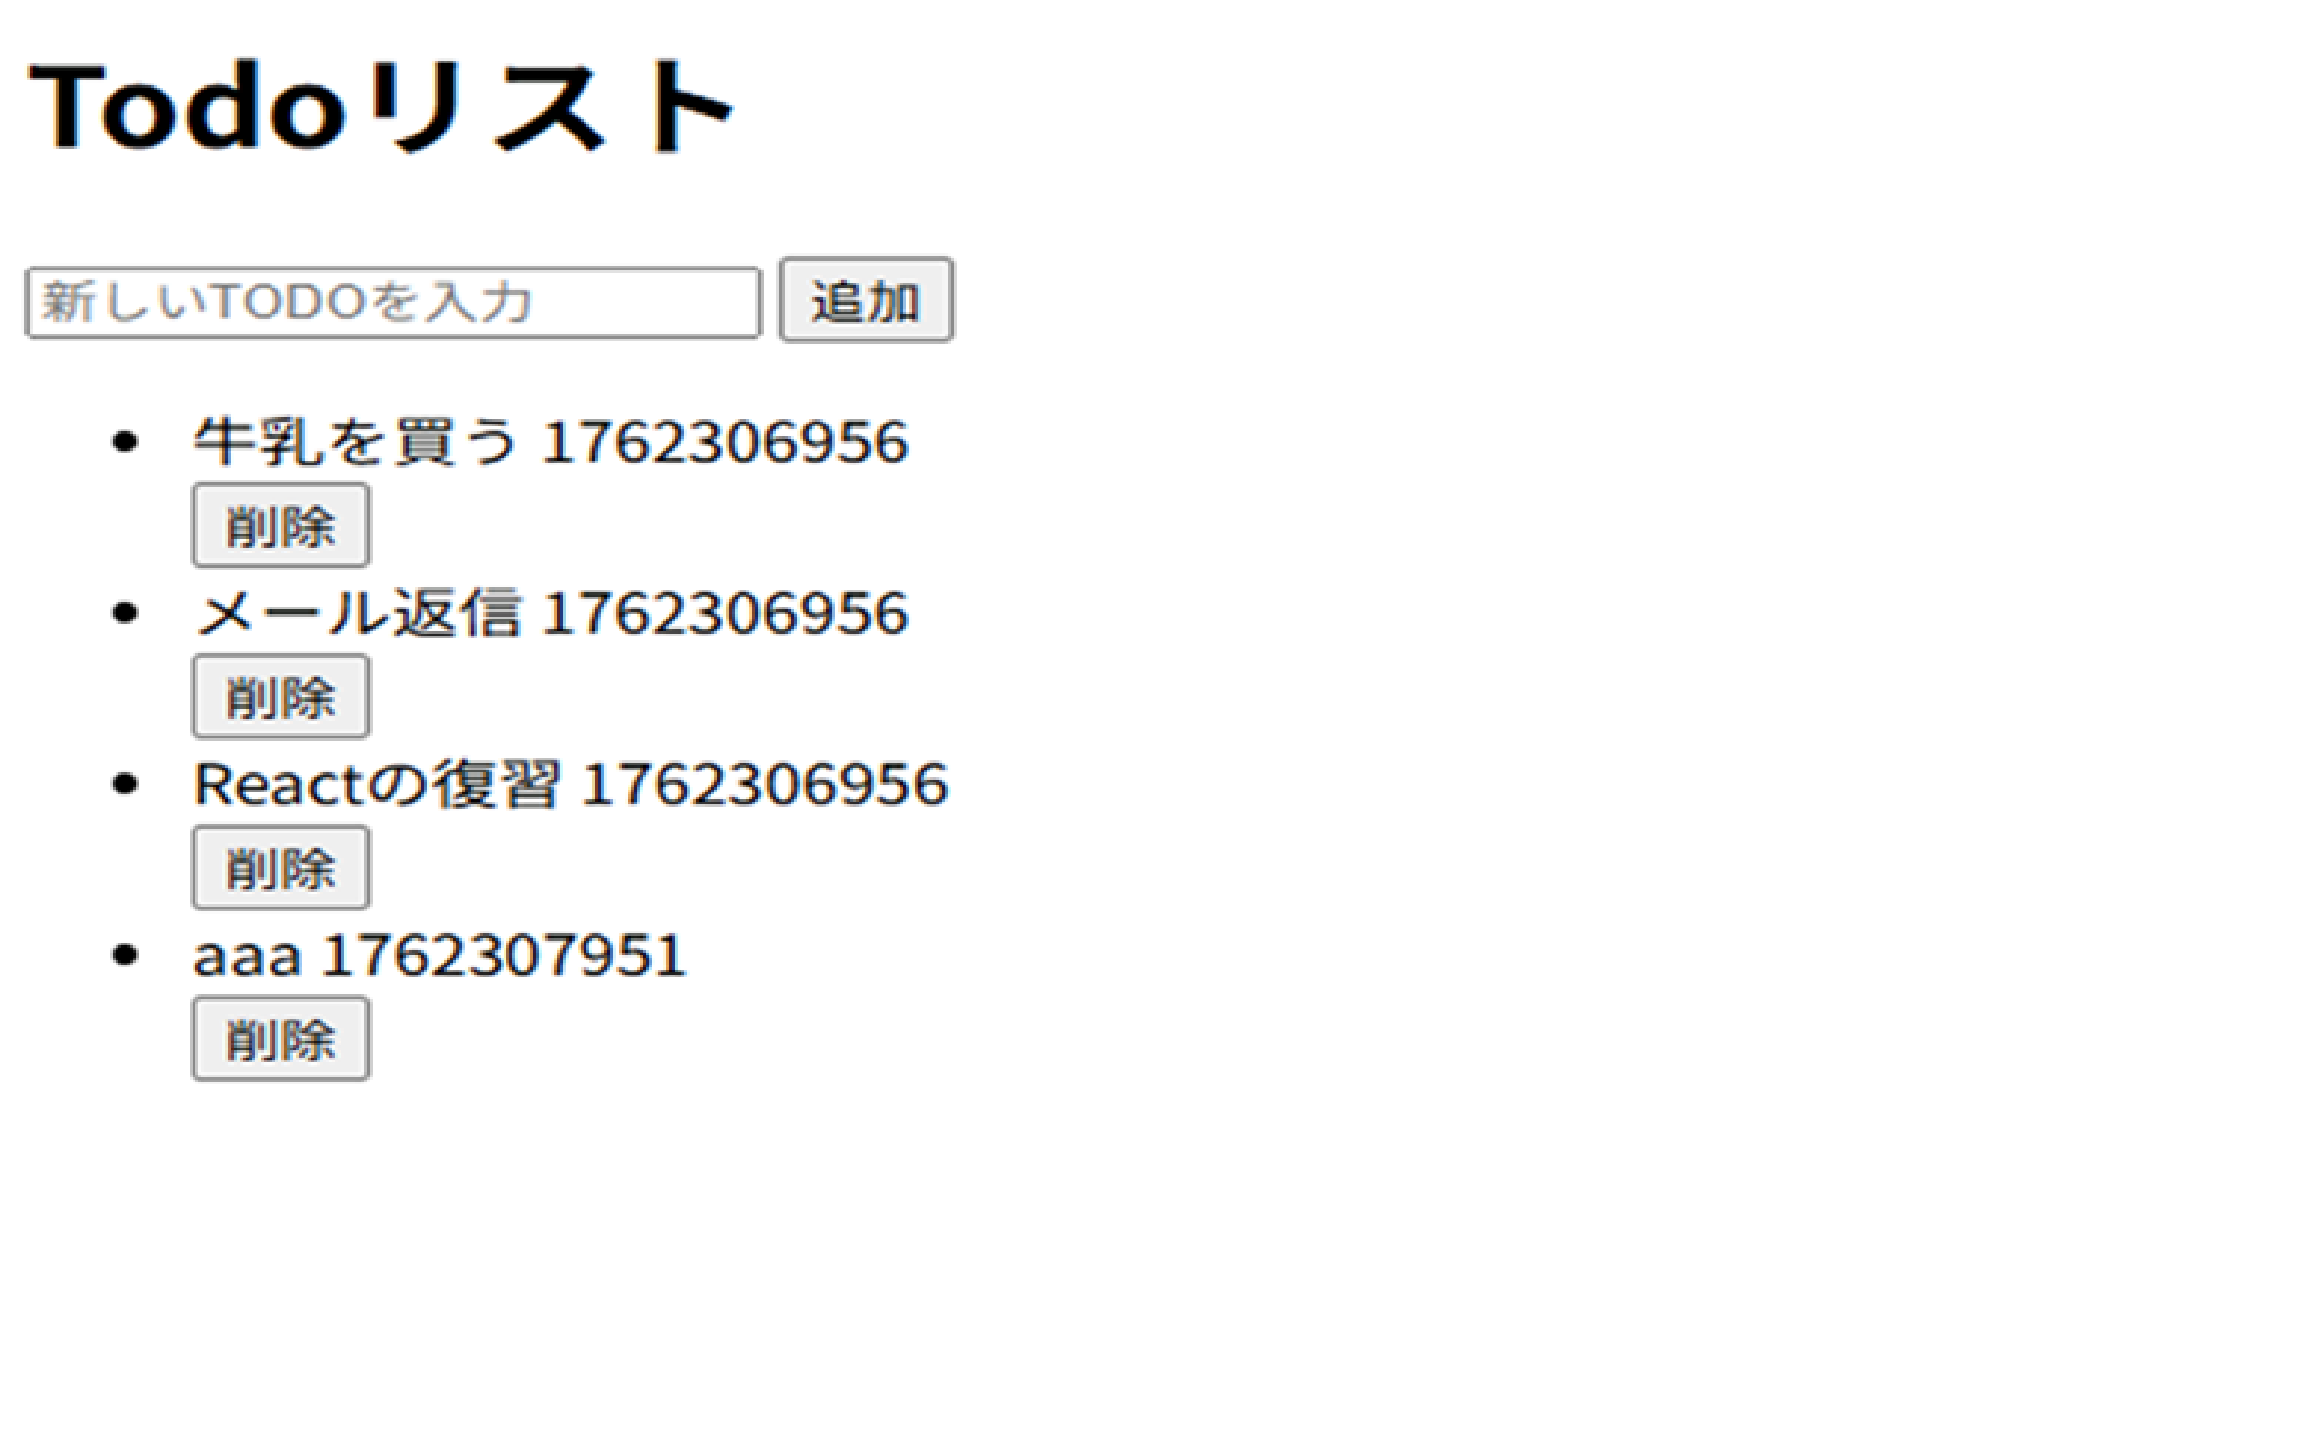
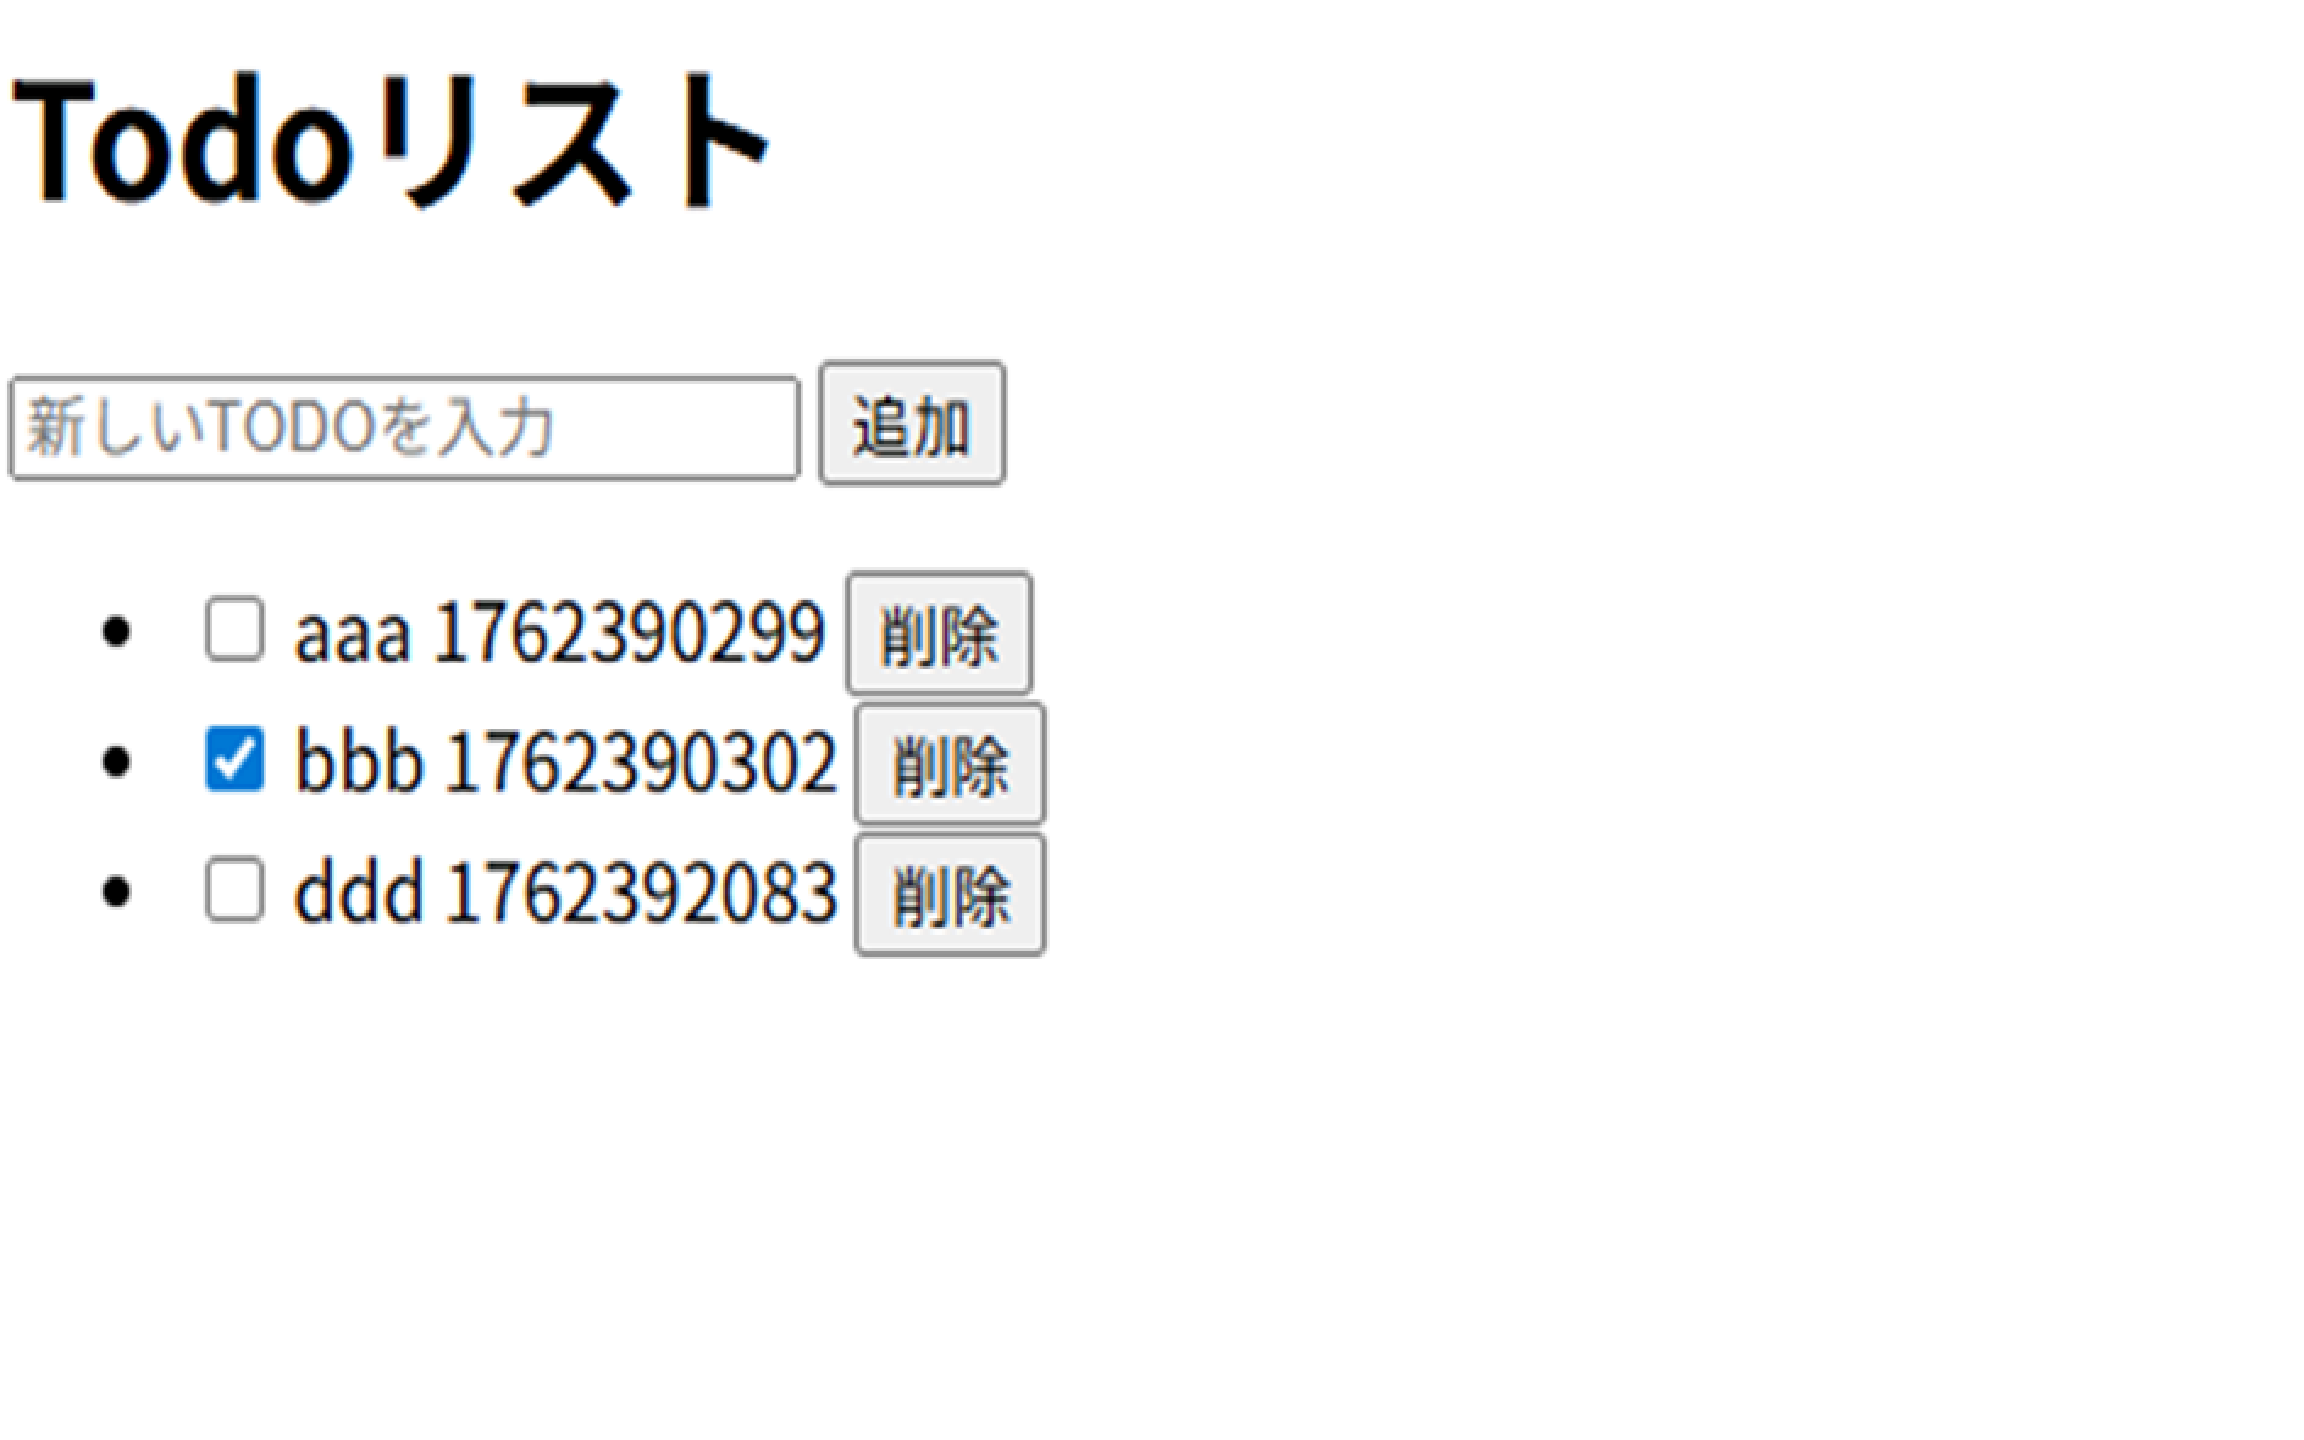
Add：完了チェックボックスの追加

Changed region(s): [[0.0, 0.1562, 0.4688, 0.75], [0.0, 0.0312, 0.3438, 0.1562]]

diff --git a/TodoList.php b/TodoList.php
@@ -4,12 +4,16 @@
 
 session_start(); // セッション開始
 
+// // セッションを破棄する　（動作確認用）
+// $_SESSION = array();
+// session_destroy();
+
 // 初期化（初回のみ）
 if (!isset($_SESSION['todos'])) {
     $_SESSION['todos'] = [
-        ["id" => time(), "text" => "牛乳を買う"],
-        ["id" => time(), "text" => "メール返信"],
-        ["id" => time(), "text" => "Reactの復習"]
+        ["id" => 1, "text" => "牛乳を買う", "isdone" => false],
+        ["id" => 2, "text" => "メール返信", "isdone" => false],
+        ["id" => 3, "text" => "Reactの復習", "isdone" => false]
     ];
 }
 
@@ -18,22 +22,29 @@ if (isset($_POST['add']) && !empty($_POST['text'])) {
     $todo = [
         'id' => time(),
         'text' => $_POST['text'],
+        "isdone" => false,
     ];
     array_push($_SESSION['todos'], $todo);
 }
 
 // Todoの削除
 if (isset($_POST['delete'])) {
-    // var_dump($_SESSION['todos']);   //27行目
-    // var_dump($_POST['delete_id']);  //28行目
-
     $deleteId = (int)$_POST['delete_id'];
-    $_SESSION['todos'] = array_filter($_SESSION['todos'], fn($todo) => $todo['id'] !== $deleteId);
-    // ↓ デバッグ用（動作確認済みのためコメントアウト）
-    // $_SESSION['todos'] = array_filter($_SESSION['todos'], function ($todo) use ($deleteId) {
-    //     var_dump($todo); // 32行目
-    //     return $todo['id'] !== $deleteId;
-    // });
+    $_SESSION['todos'] = array_filter($_SESSION['todos'], function ($todo) use ($deleteId) {
+        return $todo['id'] !== $deleteId;
+    });
+}
+
+// Todoの完了・未完了切り替え
+elseif (isset($_POST['isdone_id'])) {
+    $isdoneId = (int)$_POST['isdone_id'];
+    foreach ($_SESSION['todos'] as &$todo) {
+        if ($todo['id'] === $isdoneId) {
+            $todo['isdone'] = !$todo['isdone'];
+            break;
+        }
+    }
+    unset($todo); // 参照の解放
 }
 
 ?>
@@ -57,12 +68,19 @@ if (isset($_POST['delete'])) {
     <ul>
         <?php foreach ($_SESSION['todos'] as $todo): ?>
             <li>
+                <!-- ✅ ＜完了＞チェックボックス -->
+                <form method="POST" style="display:inline;">
+                    <input type="hidden" name="isdone_id" value="<?php echo $todo['id']; ?>">
+                    <input type="checkbox" name="isdone"
+                        onchange="this.form.submit()"
+                        <?php if ($todo['isdone']) echo 'checked'; ?>>
+                </form>
                 <!-- ＜TODO内容＞ -->
                 <?php echo htmlspecialchars($todo['text']); ?>
                 <!-- ＜登録日＞ -->
                 <?php echo htmlspecialchars($todo['id']); ?>
                 <!-- ＜削除＞ボタン -->
-                <form method="POST">
+                <form method="POST" style="display:inline;">
                     <input type="hidden" name="delete_id" value="<?php echo $todo['id']; ?>">
                     <button type="submit" name="delete">削除</button>
                 </form>
